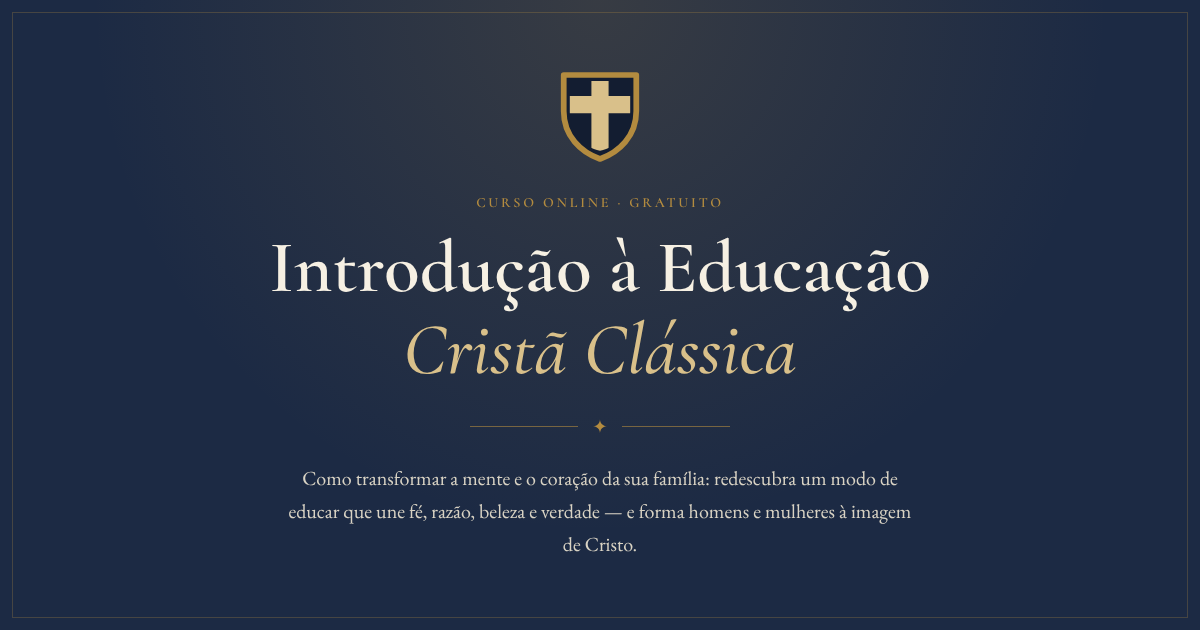
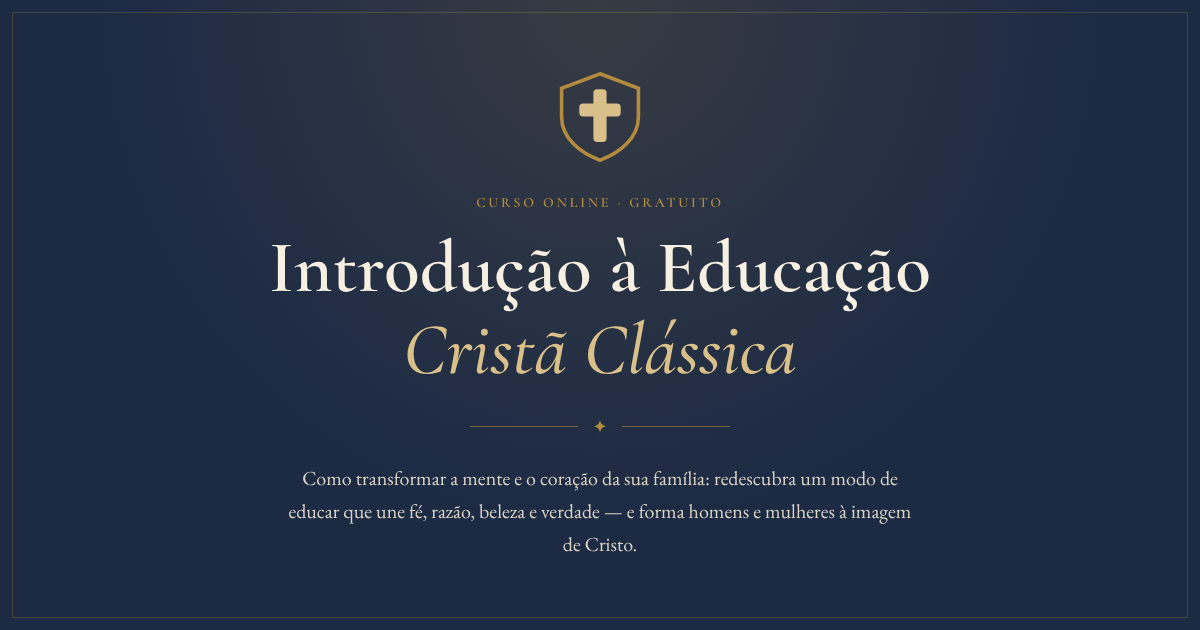
Volta ao escudo com a cruz da Phosphor, a pedido do professor
- Mantém as imagens de compartilhamento com o escudo e o endereço marlonpevidor.pages.dev
- ?v=3 nas imagens para o WhatsApp buscar a versão nova

Claude-Session: https://claude.ai/code/session_019zbxNExRumNR7DhoC4HdTc

Changed region(s): [[0.4625, 0.0905, 0.555, 0.2714], [0.6167, 0.4222, 0.6475, 0.4524]]

diff --git a/iecc/index.html b/iecc/index.html
@@ -12,7 +12,7 @@
 <meta property="og:url" content="https://marlonpevidor.pages.dev/iecc/">
 <meta property="og:title" content="Introdução à Educação Cristã Clássica · Marlon Pevidor">
 <meta property="og:description" content="Curso online gratuito: redescubra a tradição que formou gerações pela verdade, pela bondade e pela beleza.">
-<meta property="og:image" content="https://marlonpevidor.pages.dev/iecc/compartilhar.png?v=2">
+<meta property="og:image" content="https://marlonpevidor.pages.dev/iecc/compartilhar.png?v=3">
 <meta property="og:image:width" content="1200">
 <meta property="og:image:height" content="630">
 <meta name="twitter:card" content="summary_large_image">
@@ -27,7 +27,10 @@
 <header class="top">
   <div class="wrap">
     <a class="brand" href="../">
-      <!-- Escudo com cruz: desenho próprio (heráldica clássica) --><svg class="crest" aria-hidden="true" viewBox="0 0 44 50"><defs><clipPath id="escudo"><path d="M6.1 6.1 H37.9 V22 C37.9 33.14 30.759999999999998 41.019999999999996 22 42.66 C13.24 41.019999999999996 6.1 33.14 6.1 22 Z"/></clipPath></defs><path d="M3 3 H41 V22 C41 35 32 43.5 22 47 C12 43.5 3 35 3 22 Z" fill="#131d31"/><path d="M17.5 0 H26.5 V14 H44 V23 H26.5 V50 H17.5 V23 H0 V14 H17.5 Z" fill="#d9c08a" clip-path="url(#escudo)"/><path d="M3 3 H41 V22 C41 35 32 43.5 22 47 C12 43.5 3 35 3 22 Z" fill="none" stroke="#b38b3f" stroke-width="3.0" stroke-linejoin="round"/></svg>
+      <svg class="crest" viewBox="0 0 40 40" aria-hidden="true">
+        <path d="M20 2 L36 8 V20 C36 29 28 35 20 38 C12 35 4 29 4 20 V8 Z" fill="none" stroke="#b38b3f" stroke-width="1.5"/>
+        <!-- Cruz: Phosphor Icons "cross-fill" (licença MIT) --><g transform="translate(7.45 6.9) scale(0.098)" fill="#d9c08a"><path d="M216,92v24a16,16,0,0,1-16,16H156v92a16,16,0,0,1-16,16H116a16,16,0,0,1-16-16V132H56a16,16,0,0,1-16-16V92A16,16,0,0,1,56,76h44V32a16,16,0,0,1,16-16h24a16,16,0,0,1,16,16V76h44A16,16,0,0,1,216,92Z"/></g>
+      </svg>
       <span>MARLON PEVIDOR</span>
     </a>
     <nav class="links">

diff --git a/index.html b/index.html
@@ -12,7 +12,7 @@
 <meta property="og:url" content="https://marlonpevidor.pages.dev/">
 <meta property="og:title" content="Marlon Pevidor · Educação Cristã Clássica">
 <meta property="og:description" content="Cursos online gratuitos para formar a mente e o coração da sua família.">
-<meta property="og:image" content="https://marlonpevidor.pages.dev/compartilhar.png?v=2">
+<meta property="og:image" content="https://marlonpevidor.pages.dev/compartilhar.png?v=3">
 <meta property="og:image:width" content="1200">
 <meta property="og:image:height" content="630">
 <meta name="twitter:card" content="summary_large_image">
@@ -31,7 +31,10 @@
 <header class="top">
   <div class="wrap">
     <a class="brand" href="#">
-      <!-- Escudo com cruz: desenho próprio (heráldica clássica) --><svg class="crest" aria-hidden="true" viewBox="0 0 44 50"><defs><clipPath id="escudo"><path d="M6.1 6.1 H37.9 V22 C37.9 33.14 30.759999999999998 41.019999999999996 22 42.66 C13.24 41.019999999999996 6.1 33.14 6.1 22 Z"/></clipPath></defs><path d="M3 3 H41 V22 C41 35 32 43.5 22 47 C12 43.5 3 35 3 22 Z" fill="#131d31"/><path d="M17.5 0 H26.5 V14 H44 V23 H26.5 V50 H17.5 V23 H0 V14 H17.5 Z" fill="#d9c08a" clip-path="url(#escudo)"/><path d="M3 3 H41 V22 C41 35 32 43.5 22 47 C12 43.5 3 35 3 22 Z" fill="none" stroke="#b38b3f" stroke-width="3.0" stroke-linejoin="round"/></svg>
+      <svg class="crest" viewBox="0 0 40 40" aria-hidden="true">
+        <path d="M20 2 L36 8 V20 C36 29 28 35 20 38 C12 35 4 29 4 20 V8 Z" fill="none" stroke="#b38b3f" stroke-width="1.5"/>
+        <!-- Cruz: Phosphor Icons "cross-fill" (licença MIT) --><g transform="translate(7.45 6.9) scale(0.098)" fill="#d9c08a"><path d="M216,92v24a16,16,0,0,1-16,16H156v92a16,16,0,0,1-16,16H116a16,16,0,0,1-16-16V132H56a16,16,0,0,1-16-16V92A16,16,0,0,1,56,76h44V32a16,16,0,0,1,16-16h24a16,16,0,0,1,16,16V76h44A16,16,0,0,1,216,92Z"/></g>
+      </svg>
       <span>MARLON PEVIDOR</span>
     </a>
     <nav class="links">

diff --git a/ferramentas/gerar-imagens-compartilhamento.js b/ferramentas/gerar-imagens-compartilhamento.js
@@ -9,13 +9,13 @@ const { chromium } = require('playwright');
     await p.evaluate(() => {
       const crest = document.querySelector('header .crest').cloneNode(true);
       crest.setAttribute('class', 'share-crest');
-      crest.querySelector('clipPath').id = 'escudo-share';
-      crest.querySelector('[clip-path]').setAttribute('clip-path', 'url(#escudo-share)');
+      const clip = crest.querySelector('clipPath');
+      if (clip) { clip.id = 'escudo-share'; crest.querySelector('[clip-path]').setAttribute('clip-path', 'url(#escudo-share)'); }
       document.querySelector('.hero .wrap').prepend(crest);
     });
     await p.addStyleTag({ content: `header.top,.hero .actions{display:none!important}
       .hero{height:630px;display:flex;align-items:center;padding:0!important}.hero .wrap{width:100%}
-      .share-crest{display:block;width:84px;height:96px;margin:0 auto 26px}
+      .share-crest{display:block;width:96px;height:96px;margin:0 auto 26px}
       .hero .meta{display:none!important} .hero h1{max-width:22ch!important}
       .hero p.lede{margin-bottom:0!important}` });
     await p.waitForTimeout(500);

diff --git a/estilo.css b/estilo.css
@@ -74,7 +74,7 @@
   header.top .wrap { display: flex; align-items: center; justify-content: space-between; height: 68px; }
   .brand { display: flex; align-items: center; gap: 12px; text-decoration: none; color: var(--parchment); }
   .crest {
-    width: 36px; height: 41px; flex: none;
+    width: 40px; height: 40px; flex: none;
   }
   .brand span { font-family: var(--caps); font-weight: 600; letter-spacing: .14em; font-size: 1.02rem; }
   nav.links a {

diff --git a/CLAUDE.md b/CLAUDE.md
@@ -18,10 +18,9 @@ Endereços: `marlonpevidor.pages.dev` (principal) e `curso-iecc.pages.dev` (anti
 - Fontes: Cormorant Garamond (títulos), EB Garamond (texto), Cormorant SC peso 600 (rótulos em maiúsculas).
   Não usar Cinzel: o "Ã" some em alguns navegadores (visto no computador do professor).
 - Menu do topo aparece também no celular (marca e links centralizados em duas linhas).
-- Símbolo: escudo heráldico clássico de topo reto (desenho próprio), fundo azul-marinho, borda dourada,
-  cruz latina larga dourada com os braços chegando perto da borda e um filete azul separando.
-  Inspirado na ideia geral de "escudo com cruz" (heráldica de domínio público). NÃO imitar o escudo do Palmeiras
-  (topo côncavo, ponta no braço de cima da cruz, vermelho e branco). Mesmo desenho em `favicon.svg`.
+- Símbolo: escudo dourado com ponta no topo (desenho próprio) e, dentro, a cruz "cross-fill" da Phosphor Icons
+  (licença MIT). Escolha do professor depois de testar outras versões (`escudo-versoes.png`): não trocar sem pedir.
+  Mesmo desenho em `favicon.svg`.
 - Imagens de compartilhamento (WhatsApp etc.): `compartilhar.png` e `<curso>/compartilhar.png`, geradas com
   `node ferramentas/gerar-imagens-compartilhamento.js` (servidor local ligado). NÃO se atualizam sozinhas:
   gerar de novo quando o topo mudar e aumentar o `?v=N` na meta `og:image`, porque o WhatsApp guarda a imagem antiga.
